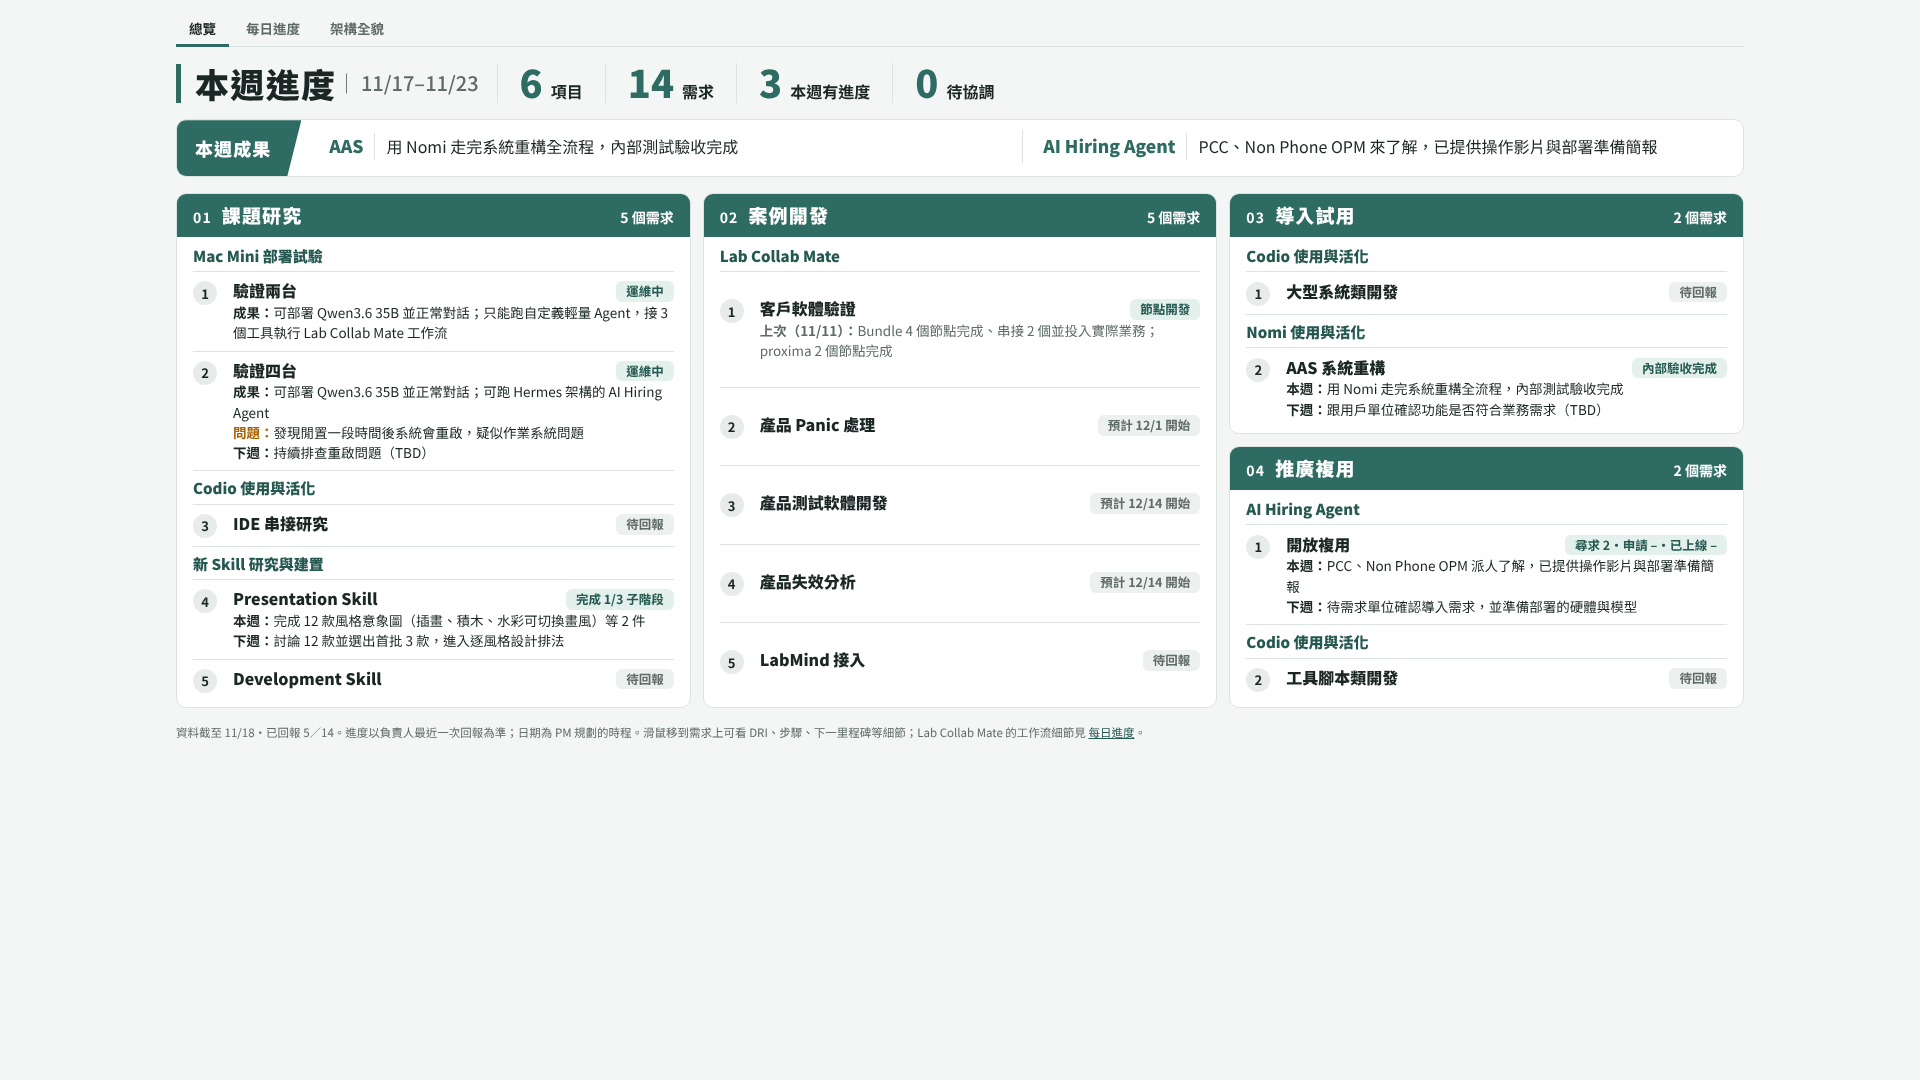
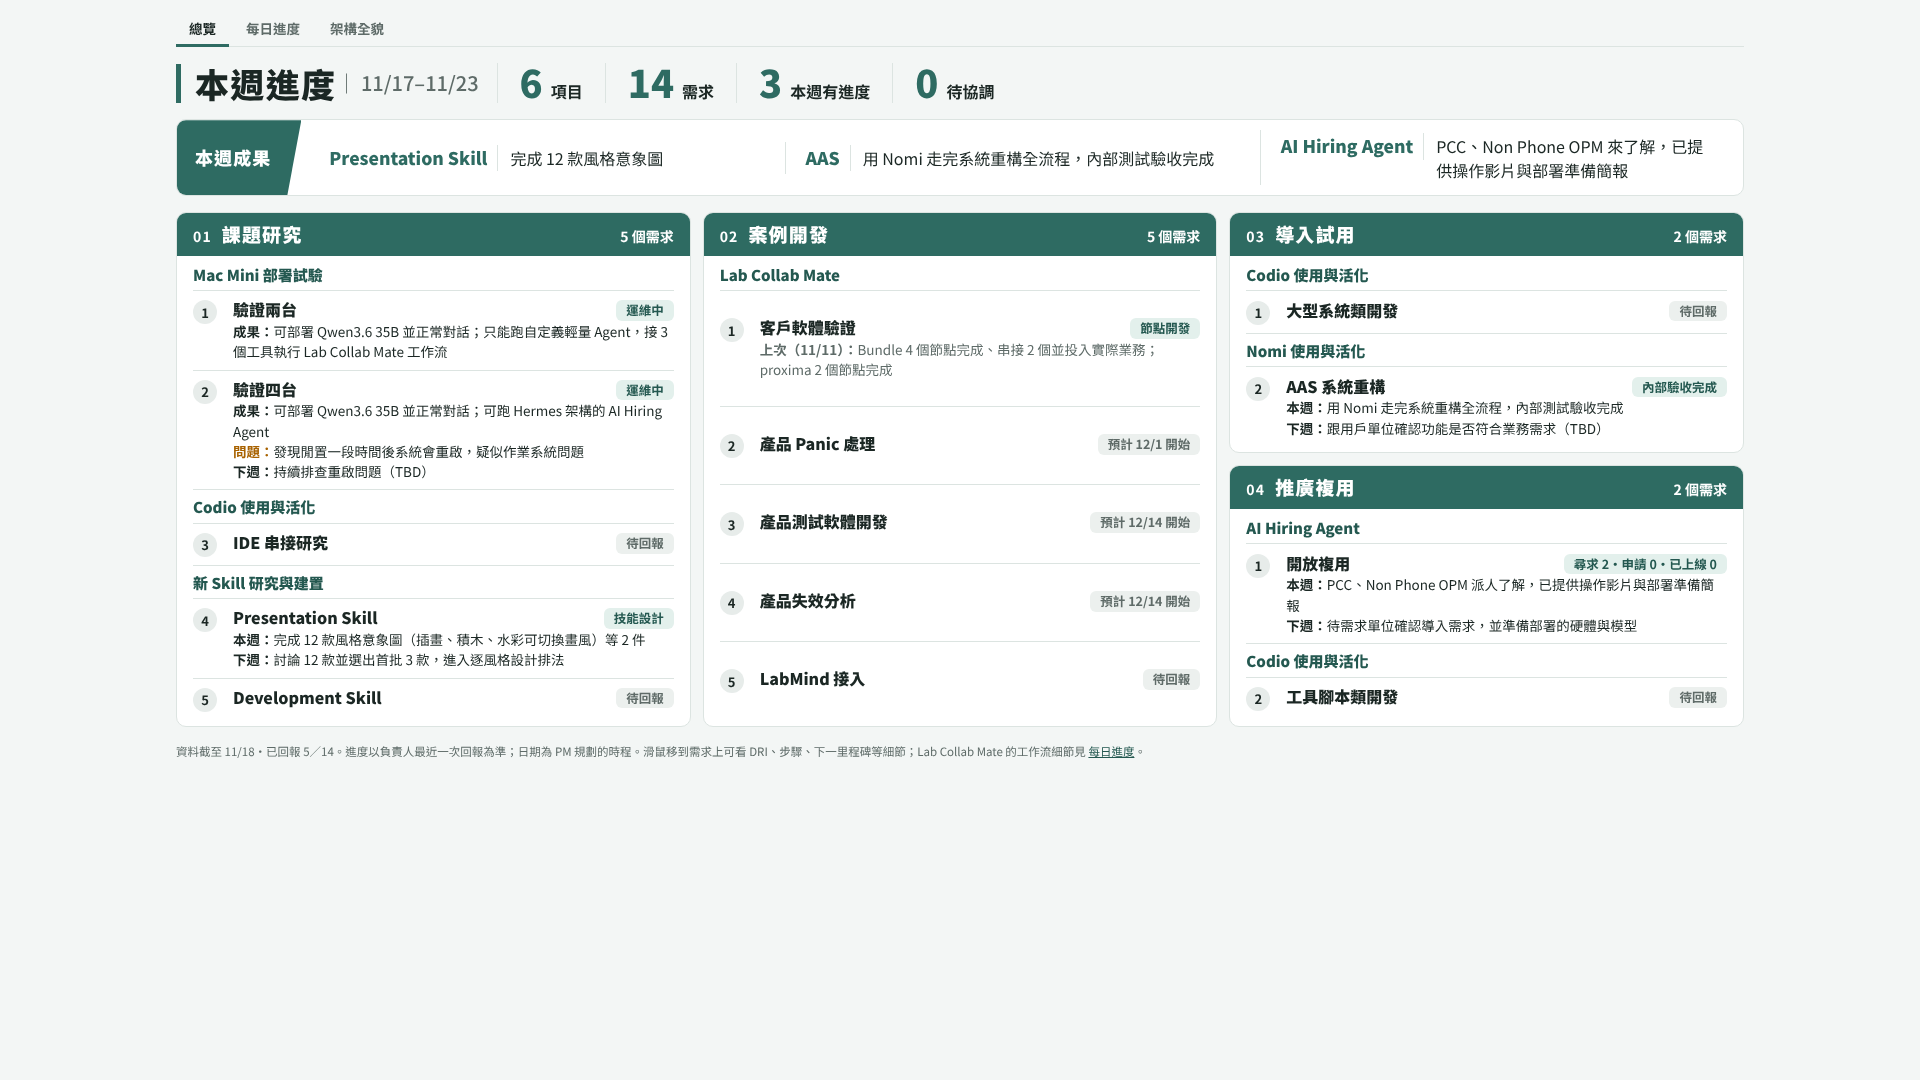
[2026-11-17_overview-redesign] 更正 Presentation Skill 在技能設計、步驟改名市場調研；Hiring 數字、DRI Alyanna、本週成果三則
Claude-Session: https://claude.ai/code/session_01Cd6Gft6mTX8zcMZinAmXya

diff --git a/public/index.html b/public/index.html
@@ -174,7 +174,7 @@ const WEEK = {from:"2026-11-17", to:"2026-11-23"};
 const ASOF = "2026-11-18";
 
 const WF = ["設計規劃","節點開發","首次跑通","五次跑通","用戶驗收","上線"];
-const SKILL = ["現況調研","技能設計","建置","實測驗證","推廣接入"];
+const SKILL = ["市場調研","技能設計","建置","實測驗證","推廣接入"];
 
 const MODULES = [
   {no:"①", name:"課題研究", col:0, reqs:[
@@ -186,12 +186,13 @@ const MODULES = [
      rep:{pill:"運維中", conclusion:"可部署 Qwen3.6 35B 並正常對話；可跑 Hermes 架構的 AI Hiring Agent",
           issue:"發現閒置一段時間後系統會重啟，疑似作業系統問題", next:["持續排查重啟問題（TBD）"]}},
     {proj:"Codio 使用與活化", name:"IDE 串接研究", type:"research", dri:null, q:"從 IDE 使用 Codio 與直接使用的差異", rep:null},
-    {proj:"新 Skill 研究與建置", name:"Presentation Skill", type:"deliver", dri:null, steps:SKILL, rel:"之後接上 Nomi",
+    {proj:"新 Skill 研究與建置", name:"Presentation Skill", type:"deliver", dri:"Alyanna", steps:SKILL, rel:"之後接上 Nomi",
      sub:{at:2, items:["目標／對象／架構／內容梳理","風格與排版","品管與檢查驗證"]},
-     desc:"技能名 deck-architect（從頭到尾支援簡報全流程的 Skill）。進度來源：claude-base-skills repo 的 presentation-skill-generation 分支。目標／對象／架構／內容梳理（方法論）已用 4 份真實簡報驗證；目前在風格與排版（設計美感階段的風格定調）；尚未用真實簡報從頭做到成品。",
-     rep:{now:2, subDone:1,
+     desc:"技能名 deck-architect（從頭到尾支援簡報全流程的 Skill）。進度來源：claude-base-skills repo 的 presentation-skill-generation 分支。目前在技能設計：方法論已用 4 份真實簡報驗證，正在做設計美感的風格定調；尚未用真實簡報從頭做到成品。",
+     rep:{now:1,
           done:["完成 12 款風格意象圖（插畫、積木、水彩可切換畫風）", "依審閱回饋重做顧問報告、週報、攝影雜誌三款"],
-          next:["討論 12 款並選出首批 3 款，進入逐風格設計排法"]}},
+          next:["討論 12 款並選出首批 3 款，進入逐風格設計排法"],
+          hl:[{i:0, s:"Presentation Skill", t:"完成 12 款風格意象圖"}]}},
     {proj:"新 Skill 研究與建置", name:"Development Skill", type:"deliver", dri:null, steps:SKILL, rel:"由 Codio 執行，InvestGo 驗證",
      sub:{at:2, items:["需求梳理","SRS","原型設計","開發設計文檔","程式碼生成校正","上線運維","測試用例生成"]}, rep:null}
   ]},
@@ -223,8 +224,8 @@ const MODULES = [
           hl:[{i:0, s:"AAS", t:"用 Nomi 走完系統重構全流程，內部測試驗收完成"}]}}
   ]},
   {no:"④", name:"推廣複用", col:2, reqs:[
-    {proj:"AI Hiring Agent", name:"開放複用", type:"promo", dri:null, nums:["尋求","申請","已上線"], numUnit:"單位",
-     rep:{nums:{"尋求":2},
+    {proj:"AI Hiring Agent", name:"開放複用", type:"promo", dri:"Alyanna", nums:["尋求","申請","已上線"], numUnit:"單位",
+     rep:{nums:{"尋求":2, "申請":0, "已上線":0},
           done:["PCC、Non Phone OPM 派人了解，已提供操作影片與部署準備簡報"],
           next:["待需求單位確認導入需求，並準備部署的硬體與模型"],
           hl:[{i:0, s:"AI Hiring Agent", t:"PCC、Non Phone OPM 來了解，已提供操作影片與部署準備簡報"}]}},

diff --git a/work/2026-11-17_overview-redesign/outputs/data-template.md b/work/2026-11-17_overview-redesign/outputs/data-template.md
@@ -121,7 +121,7 @@ A. 驗證兩台　B. 驗證四台
 | | 大型系統類開發 | 推廣型（無數字） | 不問；共 3 題；與 Development Skill 共用 InvestGo 驗證 |
 | | IDE 串接研究 | 研究型 | 目前結論（從 IDE 用 Codio 與直接用的差異） |
 | Nomi 使用與活化 | AAS 系統重構 | 交付型 | 做到哪一步：系統分析／需求梳理／原型確認／技術規劃／AI 開發測試／內部試用驗收／用戶單位確認／Xylon 架構重構（DRI：Tylee） |
-| 新 Skill 研究與建置 | Presentation Skill | 交付型 | 做到哪一步：現況調研／技能設計／建置／實測驗證／推廣接入；在「建置」時，3 個子階段（目標／對象／架構／內容梳理、風格與排版、品管與檢查驗證）完成哪幾個 |
+| 新 Skill 研究與建置 | Presentation Skill | 交付型 | 做到哪一步：市場調研／技能設計／建置／實測驗證／推廣接入；在「建置」時，3 個子階段（目標／對象／架構／內容梳理、風格與排版、品管與檢查驗證）完成哪幾個 |
 | | Development Skill | 交付型 | 做到哪一步：現況調研／技能設計／建置／實測驗證（InvestGo）／推廣接入；在「建置」時，7 個子階段（需求梳理、SRS、原型設計、開發設計文檔、程式碼生成校正、上線運維、測試用例生成）完成哪幾個；與大型系統類開發共用 InvestGo 驗證 |
 
 ---

diff --git a/work/2026-11-17_overview-redesign/inputs/SUMMARY_PresentationSkill-進度.md b/work/2026-11-17_overview-redesign/inputs/SUMMARY_PresentationSkill-進度.md
@@ -19,14 +19,12 @@
 
 專案自己的提醒：還沒有任何一份真實簡報用 deck-architect 從頭做到成品。
 
-## 對應到總覽頁的步驟（Claude 的對應，待使用者確認）
+## 對應到總覽頁的步驟（使用者確認，2026-11-18）
 
-總覽頁步驟：現況調研 → 技能設計 → **建置**（子階段：目標／對象／架構／內容梳理、風格與排版、品管與檢查驗證）→ 實測驗證 → 推廣接入。
+總覽頁步驟：市場調研 → **技能設計** → 建置（子階段：目標／對象／架構／內容梳理、風格與排版、品管與檢查驗證）→ 實測驗證 → 推廣接入。
 
-- 現況調研、技能設計：完成（階段 0）。
-- 建置・目標／對象／架構／內容梳理：完成（階段 1，方法論已用 4 份真實簡報驗證）。
-- 建置・風格與排版：**進行中**（階段 2，風格定調）。
-- 建置・品管與檢查驗證：未完成（有自動檢查，沒有獨立評審）。
+- 使用者確認：**目前在「技能設計」**。（Claude 原本對應成「建置、子階段完成 1 個」，使用者更正。）
+- DRI：Alyanna。
 
 ## 本週（11/17–11/18）做了什麼
 
